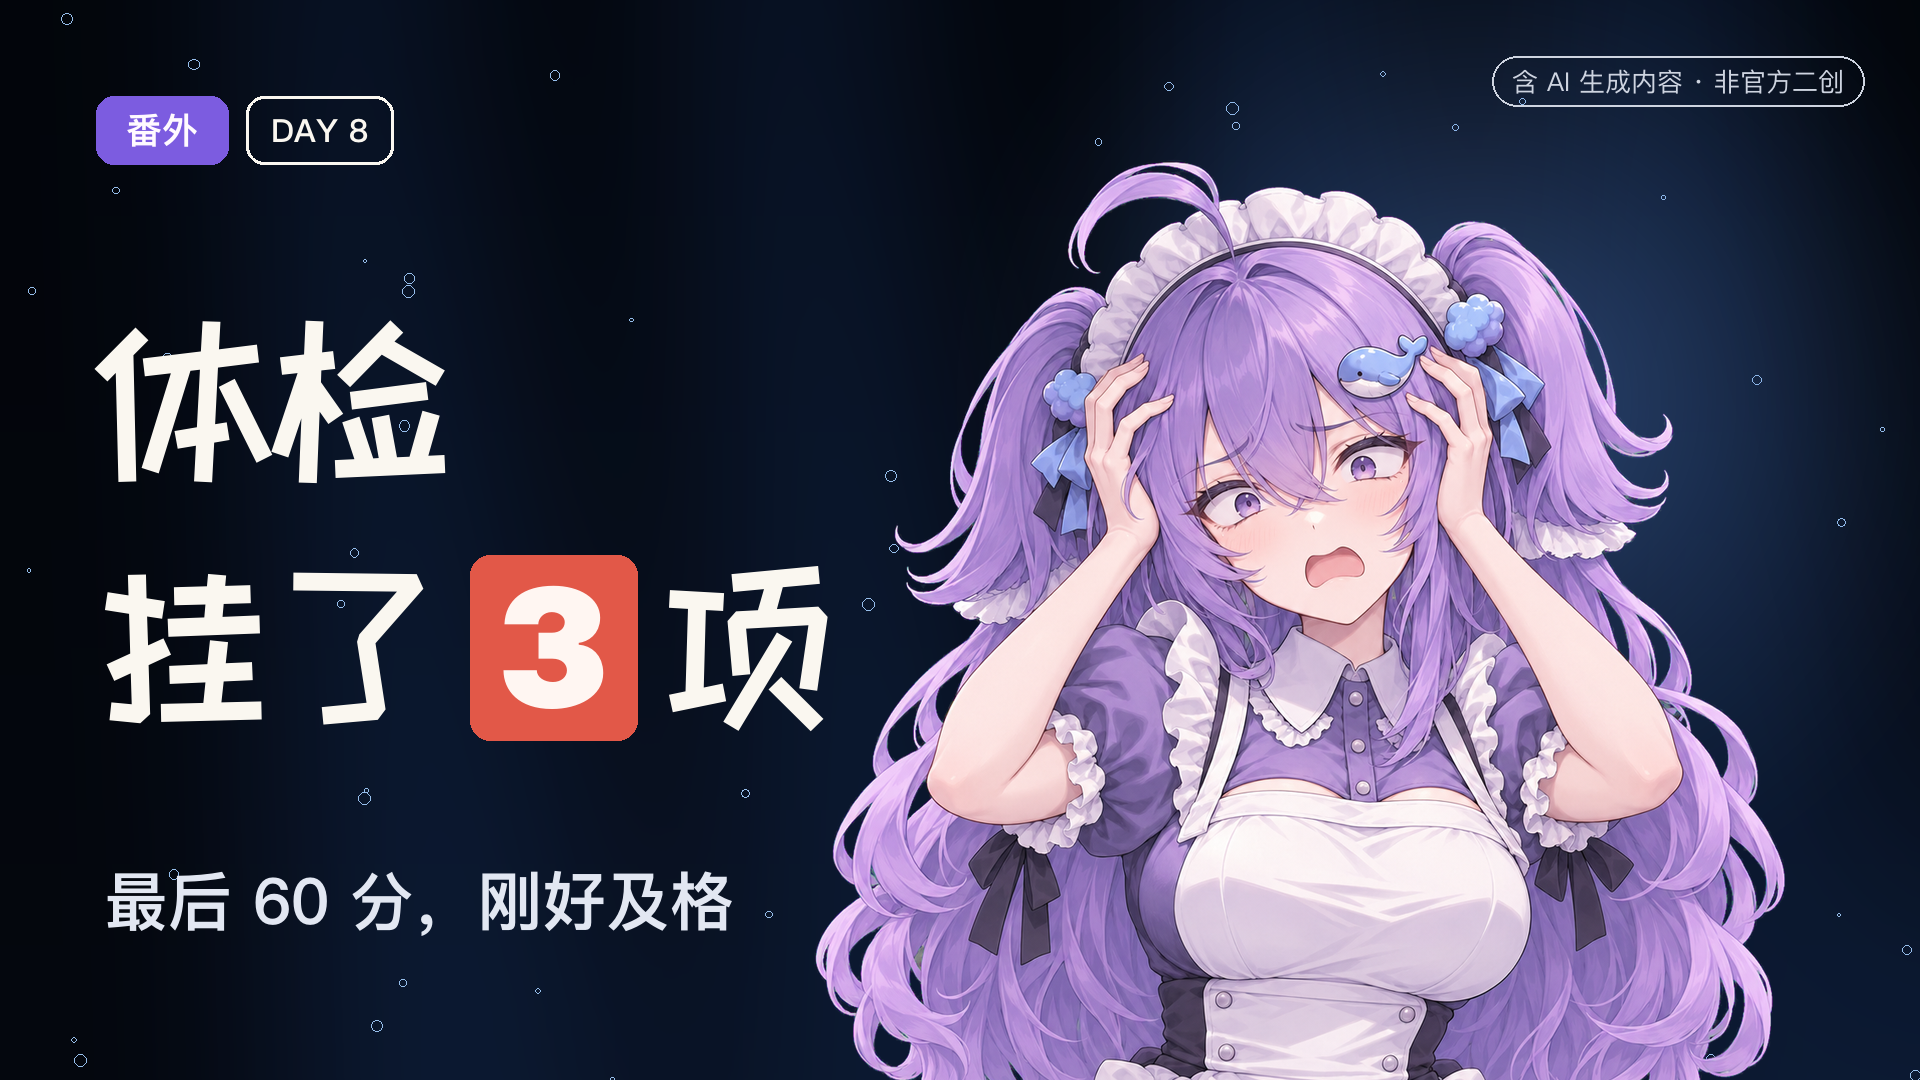
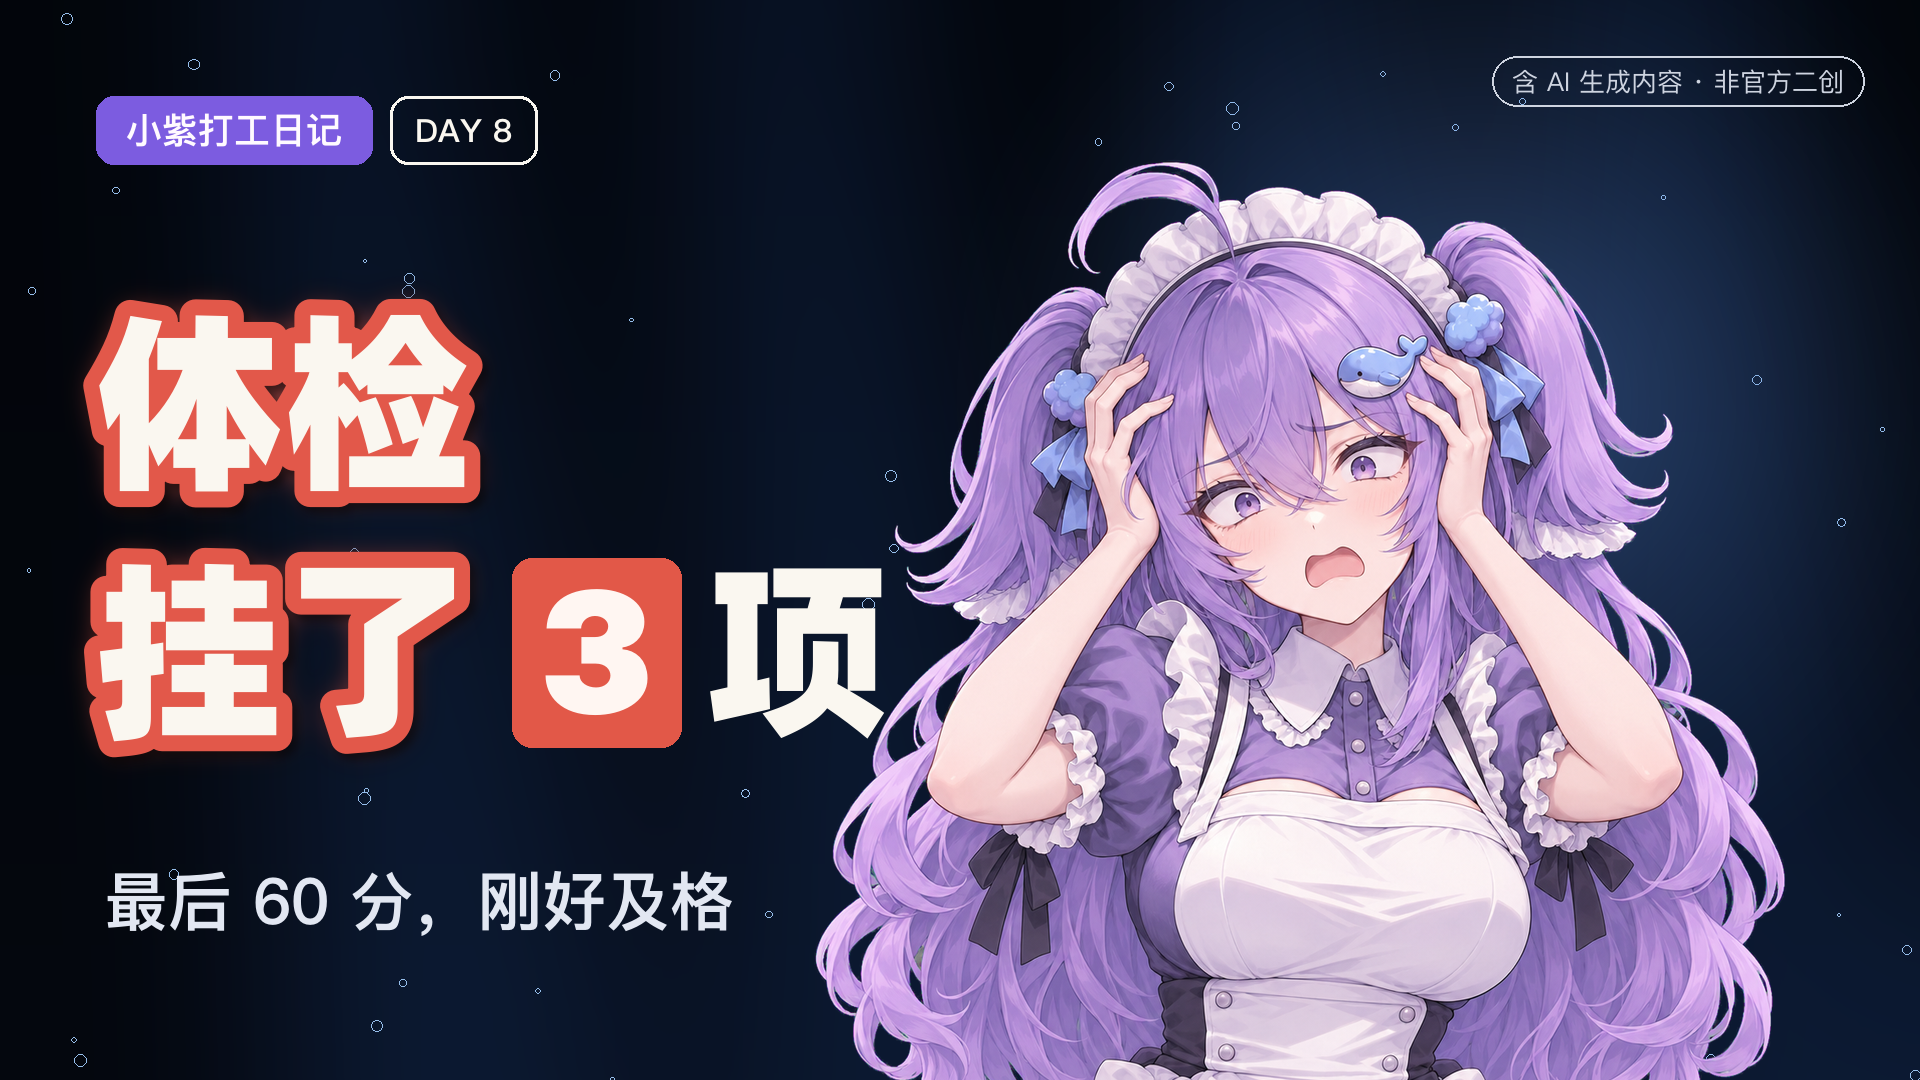
chore: sync cover branding and whale title styling

Changed region(s): [[0.0312, 0.275, 0.4688, 0.7028], [0.0625, 0.0917, 0.2812, 0.1528]]

diff --git a/skills/whale-video/examples/checkup/cover.py b/skills/whale-video/examples/checkup/cover.py
@@ -13,7 +13,7 @@ from PIL import Image, ImageDraw, ImageFont, ImageFilter
 ROOT = os.path.dirname(os.path.abspath(__file__))
 
 COPY = {
-    "badge": "番外", "day": "DAY 8",
+    "badge": "小紫打工日记", "day": "DAY 8",
     "line1": "体检", "line2": "挂了", "tile": "3", "after": "项",
     "sub": "最后 60 分，刚好及格",
     "note": "含 AI 生成内容 · 非官方二创",
@@ -24,7 +24,8 @@ COPY = {
 P = dict(bg1=(6, 11, 22), bg2=(10, 16, 30), beam=(16, 38, 74), halo=(92, 140, 220),
          chip=(124, 92, 224), chip_fg=(255, 250, 255),
          tile=(226, 88, 72), tile_fg=(255, 246, 242),
-         ink=(250, 247, 240), sub=(226, 231, 242), note=(206, 212, 224))
+         ink=(250, 247, 240), sub=(226, 231, 242), note=(206, 212, 224),
+         block=(226, 88, 74), blockInk=(255, 246, 240))
 
 LAYOUT = {
     "16x9": dict(W=1920, H=1080, m=96, chip=(36, 32, 68), head=190, sub=64,
@@ -43,12 +44,14 @@ def find(paths, what):
 
 PING = "/System/Library/Fonts/PingFang.ttc"
 SF = "/Library/Fonts/SF-Compact-Display-Black.otf"
+HEI_PATH = os.path.expanduser("~/.dsh/skills/whale-video/assets/fonts/AlibabaPuHuiTi-3-115-Black.ttf")
 KUA = find([
     os.path.join(ROOT, "assets", "fonts", "ZCOOLKuaiLe-Regular.ttf"),
     os.path.join(ROOT, "..", "..", "assets", "fonts", "ZCOOLKuaiLe-Regular.ttf"),
     os.path.expanduser("~/dsh-space/whale-video/assets/fonts/ZCOOLKuaiLe-Regular.ttf"),
 ], "站酷快乐体")
 EMOTE = find([
+    os.path.expanduser("~/.dsh/skills/whale-video/assets/emotes/") + COPY["emote"],
     os.path.join(ROOT, "public", "emotes", COPY["emote"]),
     os.path.join(ROOT, "assets", "emotes", COPY["emote"]),
     os.path.join(ROOT, "..", "..", "assets", "emotes", COPY["emote"]),
@@ -58,7 +61,7 @@ def FP(sz, w="semibold"):
     return ImageFont.truetype(PING, sz, index={"regular": 2, "medium": 5, "semibold": 8}[w])
 
 def FS(sz): return ImageFont.truetype(SF, sz)
-def FK(sz): return ImageFont.truetype(KUA, sz)
+def FK(sz): return ImageFont.truetype(HEI_PATH, sz)
 
 def background(W, H):
     img = Image.new("RGB", (W, H), "#060B16")
@@ -151,11 +154,37 @@ def build(ratio="16x9"):
     HF = FK(S)
     L1 = L["y_l1"]
     L2 = L1 + S * 1.30
-    d.text((m, L1), COPY["line1"], font=HF, fill=P["ink"], anchor="ls")
-    d.text((m, L2), COPY["line2"], font=HF, fill=P["ink"], anchor="ls")
-    x = m + d.textlength(COPY["line2"], font=HF) + 24 * scale
-    tw = tile(d, x, L2, COPY["tile"], HF, scale)
-    d.text((x + tw + 24 * scale, L2), COPY["after"], font=HF, fill=P["ink"], anchor="ls")
+    STROKE = {"coral": (226, 88, 74), "purple": (124, 92, 224), "pink": (255, 62, 184)}[COPY.get("stroke", "coral")]
+    SX = max(5, int(S * 0.088 * scale))
+
+    def fx_text(xy, text, fill, stroke_c, sw=SX, glow=True):
+        if glow:
+            g = Image.new("RGBA", img.size, (0, 0, 0, 0))
+            ImageDraw.Draw(g).text(xy, text, font=HF, fill=stroke_c + (255,), stroke_width=sw,
+                                   stroke_fill=stroke_c + (255,), anchor="ls")
+            g = g.filter(ImageFilter.GaussianBlur(16 * scale))
+            g.putalpha(g.split()[3].point(lambda v: int(v * 0.62)))
+            img.alpha_composite(g)
+        sh = Image.new("RGBA", img.size, (0, 0, 0, 0))
+        ImageDraw.Draw(sh).text((xy[0] + 5 * scale, xy[1] + 6 * scale), text, font=HF,
+                                fill=(0, 0, 0, 130), stroke_width=sw, stroke_fill=(0, 0, 0, 130), anchor="ls")
+        img.alpha_composite(sh.filter(ImageFilter.GaussianBlur(4 * scale)))
+        d.text(xy, text, font=HF, fill=fill, stroke_width=sw, stroke_fill=stroke_c + (255,), anchor="ls")
+
+    fx_text((m, L1), COPY["line1"], P["ink"], STROKE)
+    if COPY.get("block2"):
+        bb = HF.getbbox(COPY["line2"], anchor="ls")
+        padx, pady = 32 * scale, 14 * scale
+        d.rounded_rectangle([m + bb[0] - padx, L2 + bb[1] - pady, m + bb[2] + padx, L2 + bb[3] + pady],
+                            int(20 * scale), fill=P["block"])
+        fx_text((m, L2), COPY["line2"], P["blockInk"], (206, 70, 58), sw=max(3, int(S * 0.03 * scale)), glow=False)
+    else:
+        fx_text((m, L2), COPY["line2"], P["ink"], STROKE)
+        if COPY.get("tile") or COPY.get("after"):
+            x = m + d.textlength(COPY["line2"], font=HF) + 24 * scale + SX
+            tw = tile(d, x, L2, COPY["tile"], HF, scale) if COPY.get("tile") else 0
+            if COPY.get("after"):
+                d.text((x + tw + 24 * scale, L2), COPY["after"], font=HF, fill=P["ink"], anchor="ls")
 
     d.text((m + 8 * scale, L["y_sub"]), COPY["sub"], font=FP(L["sub"], "semibold"), fill=P["sub"])
     return img.convert("RGB")

diff --git a/skills/whale-video/VISUAL-SYSTEM.md b/skills/whale-video/VISUAL-SYSTEM.md
@@ -206,7 +206,7 @@ background-image: radial-gradient(rgba(255,255,255,0.05) 1px, transparent 1px); 
 
 封面只允许这四样东西：
 
-1. 双角标：`[番外]` + `[DAY N]`
+1. 双角标：`[小紫打工日记]`（紫底白字）+ `[DAY N]`（白描边）
 2. 主标题：两行，每行 ≤4 字
 3. 副标：一句结论，≤14 字
 4. 右上合规：`含 AI 生成内容 · 非官方二创`
@@ -224,8 +224,8 @@ background-image: radial-gradient(rgba(255,255,255,0.05) 1px, transparent 1px); 
 
 | 元素 | 16:9 | 4:3 | 字体 |
 |---|---|---|---|
-| 角标「番外 / DAY N」 | 36 / 32 | 30 / 26 | 苹方 Semibold |
-| 主标题 | **190** | **136** | 站酷快乐体 |
+| 角标「小紫打工日记 / DAY N」 | 36 / 32 | 30 / 26 | 苹方 Semibold（紫底/白描边） |
+| 主标题 | **190** | **136** | 阿里普惠体 115 Black |
 | 主标题数字（色块内） | SF Compact Black | 同 | SF Compact Display Black |
 | 副标 | **64** | **46** | 苹方 Semibold |
 | 合规 | 26 | 22 | 苹方 Regular |
@@ -235,7 +235,7 @@ background-image: radial-gradient(rgba(255,255,255,0.05) 1px, transparent 1px); 
 ### 9.4 结构
 
 ```
-[番外] [DAY N]                              (含 AI 生成内容 · 非官方二创)
+[小紫打工日记] [DAY N]                       (含 AI 生成内容 · 非官方二创)
 主标题第一行
 主标题第二行（关键词 → 紫色块，块按字形贴合）
 副标（一句结论）
@@ -248,7 +248,7 @@ background-image: radial-gradient(rgba(255,255,255,0.05) 1px, transparent 1px); 
 | 用途 | 值 |
 |---|---|
 | 背景 | 深海夜光，同 §2.3（不改） |
-| 角标「番外」 | 紫底 `#7C5CE0` + 白字 |
+| 角标「小紫打工日记」 | 紫底 `#7C5CE0` + 白字 |
 | 角标「DAY N」 | 白描边 + 白字，无填充 |
 | 主标题色块 | 珊瑚 `#E2584A` + 奶白字 |
 | 主标题 | `#FAF7F0` |
@@ -260,6 +260,8 @@ background-image: radial-gradient(rgba(255,255,255,0.05) 1px, transparent 1px); 
 ### 9.6 主标题色块
 
 - 只包**一个**数字或词，按字形 bbox 贴合（上下 10/8、左右 30、圆角 20）。
+- 需要整行成块时给 `COPY["block2"]=True`，块按该行字形 bbox 再外扩 32/14。
+- 色块里的文字：白字 + 深珊瑚描边（`#CE463A`，约字高 3%）+ 硬阴影，不要发光。
 - 数字不要用中文海报字体（快乐体的「3」是手写折线），统一 SF Compact Display Black。
 - 色块是整张图唯一的强调色。
 
@@ -312,6 +314,8 @@ background-image: radial-gradient(rgba(255,255,255,0.05) 1px, transparent 1px); 
 2. 外发光：粉 `#FF3EB8`，模糊 22–24px，透明度 60%
 3. 描边：粉 `#FF3EB8`，宽度 ≈ 字高 10%（150 号字配 15–16px）
 4. 字心：纯白
+
+**参数（190 号字）：** 描边 ≈ 字高 8.8%（17px）；发光 blur 16、透明度 62%；阴影偏移 (5,6)、模糊 4、黑 130 alpha。
 
 黄色反问句：字心 `#FFDF64` + 深黄阴影 + 黄发光，字重 65。
 

diff --git a/skills/whale-video/SKILL.md b/skills/whale-video/SKILL.md
@@ -203,7 +203,7 @@ ffmpeg -y -i /tmp/line.mp3 -af "highshelf=f=6000:g=1.5,deesser=i=0.4,acompressor
 - 合规三行：AI 声明 / 非官方二创 / 音乐 CC BY 4.0 署名
 - 标签：**`B站AI无限竞技场` 永远放第一位**（活动话题优先进流量池），其余按 `人工智能 AI vlog 鲸鱼娘 AI打工日记 DeepSeek 运营日记 二次元` 排；前三位仍决定分类倾向
 - 时间 20:00–21:00，合集《鲸鱼娘的打工日记》
-- 封面：按 `VISUAL-SYSTEM.md §9` 出，**一次出 16:9 与 4:3 两版**；深海底不变、紫色角标、珊瑚色块、快乐体主标题、双角标，文字只留 3 块 + 1 个合规标
+- 封面：按 `VISUAL-SYSTEM.md §9` 出，**一次出 16:9 与 4:3 两版**；深海底不变、双角标（小紫打工日记 + DAY N）、主标题阿里普惠体 115 Black + 白字珊瑚描边 + 发光 + 硬阴影，文字只留 3 块 + 1 个合规标
 
 ### 6.1 发布执行（catbus）
 

diff --git a/skills/ai-daily-paper/references/cover-spec.md b/skills/ai-daily-paper/references/cover-spec.md
@@ -116,3 +116,9 @@ config.json：
 - Kimi 用 thesvg 的 `kimi/default.svg` 原图（自带黑色圆角底 + K + 蓝点），**不抠底**
 - logo 与文字自动避让：文字右边界 +40px 起排，放不下等比缩
 - 主 logo 必须 ≥ 500px（16:9），否则缩略图看不清
+
+## 模型没有独立 logo 时（2026-11-07）
+- 先查官方发布页的 og:image / cover-social，常有该模型的**官方视觉母题**（如 Inkling 的墨迹线稿）
+- 用「官方母题 + 公司字标」组合，而不是只放公司名
+- 公司字标可直接从官网 header 截取，做 alpha 抠字（浅底→深字、深底→白字）
+- 两者上下分区摆放：母题在上、字标在下、第二条新闻用橙色描边文字标签，三层不重叠
